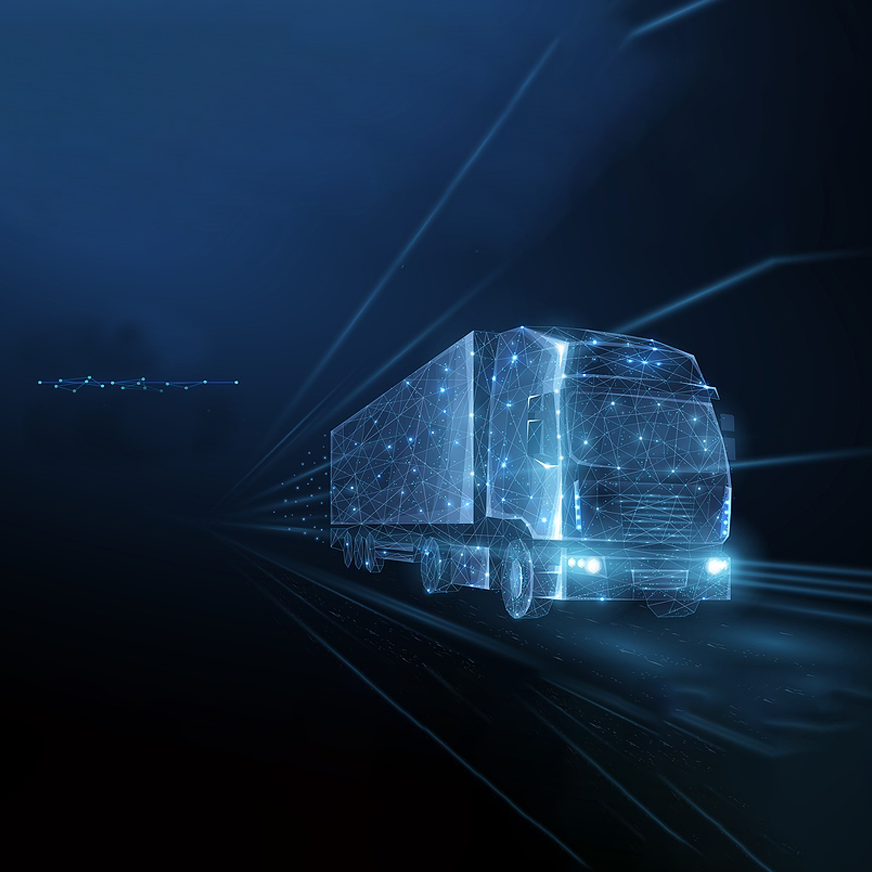
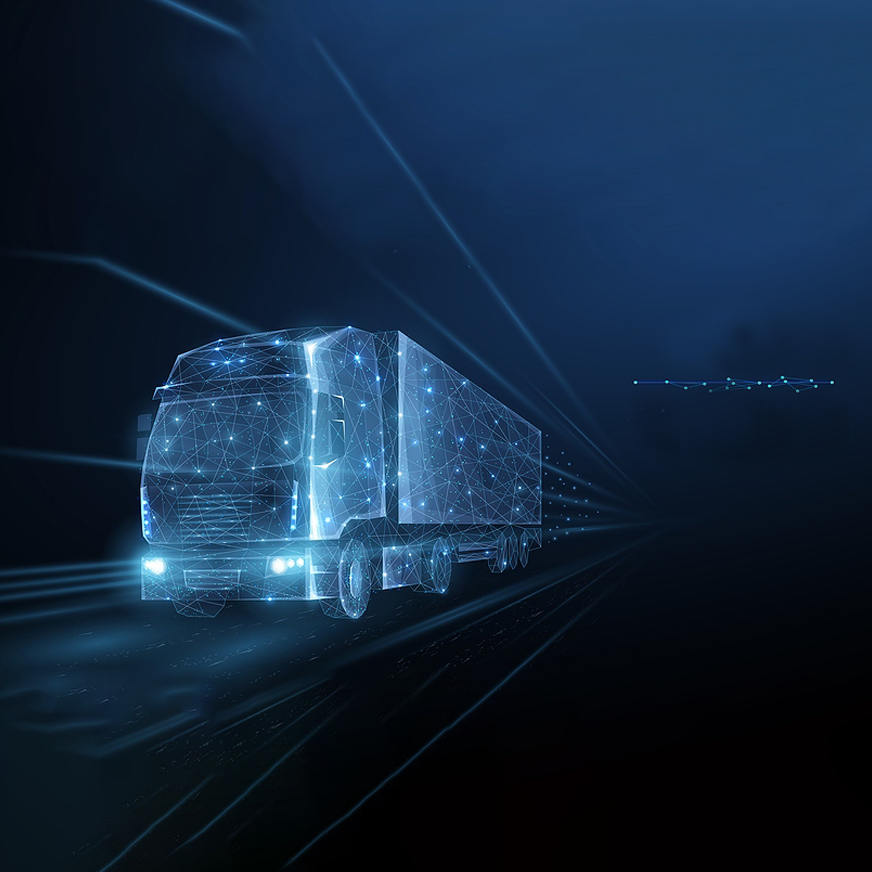
cambios

diff --git a/src/components/BannerSection/SlideItemThree.js b/src/components/BannerSection/SlideItemThree.js
@@ -2,7 +2,7 @@ import React, { forwardRef } from "react";
 import TextSplit from "../Reuseable/TextSplit";
 
 const SlideItemThree = ({ slide = {} }, ref) => {
-  const { title, text } = slide;
+  const { title, text, bg } = slide;
 
   return (
     <div style={{ userSelect: "none" }} ref={ref} className="slide-item">
@@ -12,7 +12,7 @@ const SlideItemThree = ({ slide = {} }, ref) => {
           className="image"
           style={{
             backgroundImage: `url(${
-              require(`../../../public/paraguay.png`).default.src
+              require(`../../assets/images/${bg}`).default.src
             })`,
           }}
         ></div>

diff --git a/src/data/bannerSection.js b/src/data/bannerSection.js
@@ -28,13 +28,13 @@ export const bannerOne = {
     {
       id: 1,
       bg: "principalImage.png",
-      title: "Protección en puertos carreras y fronteras",
-      text: "Incorporación de las Más Moderna Tecnología",
+      title: "Sistema integral de control instrusivo",
+      text: "Garantía de Integridad de Mercancías",
     },
 
     {
       id: 2,
-      bg: "principalImage.png",
+      bg: "paraguay.png",
       title: "Protección en puertos carreras y fronteras",
       text: "Incorporación de las Más Moderna Tecnología",
     },

diff --git a/src/styles/style.css b/src/styles/style.css
@@ -2832,7 +2832,7 @@ img.lazy-image.loaded {
   transition: all 1000ms ease;
   -webkit-transition-delay: 200ms;
   transition-delay: 200ms;
-  transform: scaleX(-1);
+  /* transform: scaleX(-1); */
 }
 
 .banner-carousel .slide-item .round-image:before {
